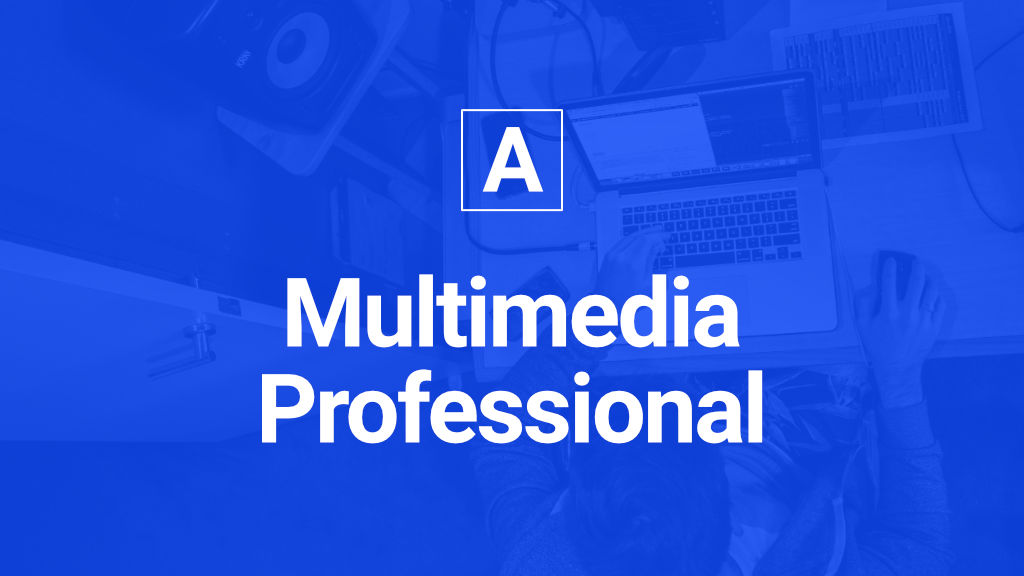
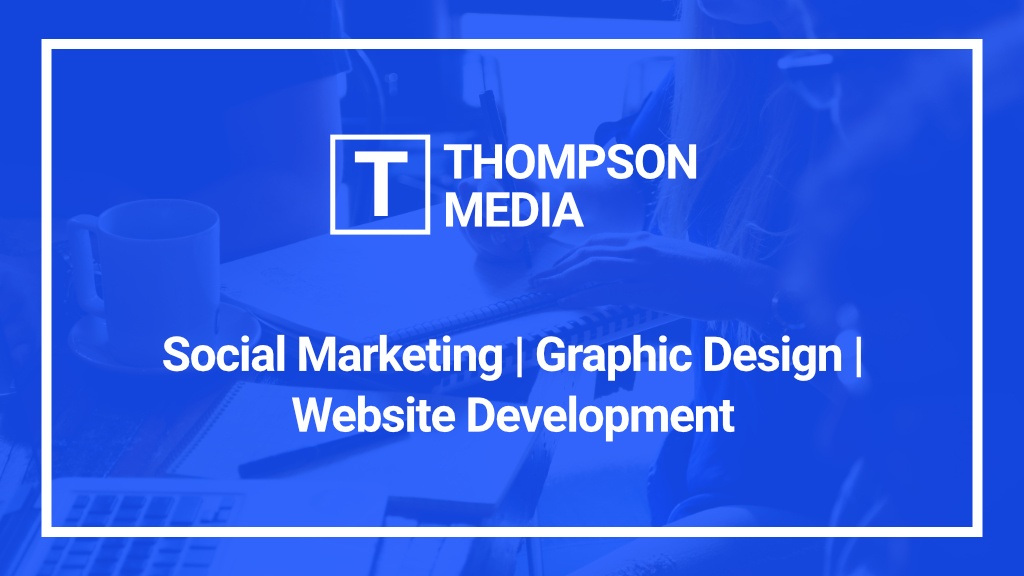
Changed Name and info

diff --git a/_sass/jekyll-theme-cayman.scss b/_sass/jekyll-theme-cayman.scss
@@ -3,38 +3,6 @@
 @import "framework/framework";
 @import "framework/icons";
 
-#header {
-  padding: 1.5rem 0;
-}
-
-#header ul.nav {
-  display: -ms-flexbox;
-  display: flex;
-  -ms-flex-pack: justify;
-  justify-content: space-between;
-  -ms-flex-align: center;
-  margin-bottom: 0;
-  list-style: none;
-}
-
-#header ul.nav > li {
-  display: inline-block;
-  margin-bottom: 0;
-}
-
-#header ul.nav > li > a {
-  font-size: 2.0rem;
-  font-weight: 400;
-}
-
-@media (min-width: 40rem) {
-  #header ul.nav {
-    width: 50%;
-    margin-left: auto;
-    margin-right: auto;
-  }
-}
-
 #intro {
   position: relative;
   padding-top: 8%;
@@ -60,117 +28,8 @@
     opacity: 0.85;
 }
 
-#about {
-  padding-top: 8%;
-  padding-bottom: 8%;
-}
-
-#about .row {
-  padding-bottom: 5%;
-}
-
-#about .row:last-child {
-  padding-bottom: 0;
-}
-
-#about h4 {
-  display: inline-block;
-  margin-left: 2.0rem;
-  vertical-align: middle;
-  margin-bottom: 3.4rem;
-}
-
-#about i {
-  display: inline-block;
-  font-size: 6rem;
-  color: $primary-color;
-  margin-bottom: 3.4rem;
-  vertical-align: middle;
-}
-
-#contact {
-  text-align: center;
-}
-
-#contact .cta {
-  padding-top: 6%;
-  padding-bottom: 6%;
-  background-color: $primary-color;
-}
-
-#contact .cta * {
-  color: #fff;
-}
-
-#contact .cta a.button > i {
-  margin-right: 1rem;
-}
-
-#contact .social {
-  padding-top: 5%;
-  padding-bottom: 2.0rem;
-}
-
-#contact .social ul {
-  display: -ms-flexbox;
-  display: flex;
-  -ms-flex-pack: justify;
-  justify-content: space-between;
-  -ms-flex-align: center;
-  margin-bottom: 0;
-  list-style: none;
-}
-
-#contact .social ul > li {
-  display: inline-block;
-  margin-right: 10px;
-  margin-bottom: 0;
-}
-
-#contact .social ul > li:last-child {
-  margin-right: 0;
-}
-
-#contact .social ul > li > a {
-    font-size: 2.4rem;
-}
-
-#contact .copyright {
-  padding-bottom: 5%;
-  font-size: 1.6rem;
-}
-
-@media (min-width: 40rem) {
-  #contact .cta .container {
-    width: 50%;
-  }
-  #contact .social ul {
-    width: 33.33%;
-    margin-left: auto;
-    margin-right: auto;
-  }
-}
-
 @media (max-width: 40rem) {
     #intro {
       text-align: center;
-    }
-    #about .column {
-      padding-bottom: 5%;
-    }
-    #about .column:last-child {
-      padding-bottom: 0;
-    }
-    #about h4 {
-      margin-left: 1.5rem;
-      margin-bottom: 1.5rem;
-    }
-    #about i {
-      font-size: 5rem;
-      margin-bottom: 1.5rem;
-    }
-    #contact .cta a.button > i {
-      display: none;
-      margin-right: 0.5rem;
     }
 }

diff --git a/_layouts/default.html b/_layouts/default.html
@@ -5,40 +5,7 @@
   </head>
   <body>
 
-    <header id="header">
-      <div class="container">
-        <ul class="nav">
-          <li><a href="#about">About</a></li>
-          <li><a href="#work">Work</a></li>
-          <li><a href="#contact">Contact</a></li>
-        </ul>
-      </div>
-    </header>
-
     {{ content }}
-
-    <footer id="contact">
-      <div class="cta">
-        <div class="container">
-          <h1>Let's Grab a Coffee!</h1>
-          <p>I am always keen for a good coffee, my absolute favourite is a triple-shot caramel latte. What's yours?</p>
-          <a href="mailto:contact@angusthompson.com.au" class="button button-clear"><i class="icon-envelope"></i>contact@angusthompson.com.au</a>
-        </div>
-      </div>
-      <div class="social">
-        <div class="container">
-          <ul>
-            <li><a href="https://www.facebook.com/angustho"><i class="icon-social-facebook"></i></a></li>
-            <li><a href="https://www.instagram.com/thomo120/"><i class="icon-social-instagram"></i></a></li>
-            <li><a href="https://www.youtube.com/AngusThompson120"><i class="icon-social-youtube"></i></a></li>
-            <li><a href="https://www.linkedin.com/in/angus-thompson-22931762/"><i class="icon-social-linkedin"></i></a></li>
-          </ul>
-        </div>
-      </div>
-      <div class="copyright">
-        © 2017 Angus Thompson. All rights reserved.
-      </div>
-    </footer>
 
     {% if site.google_analytics %}
       <script type="text/javascript">

diff --git a/index.md b/index.md
@@ -1,46 +1,13 @@
 ---
 layout: default
-title: Angus Thompson - Multimedia Professional
+title: Thompson Media - Social Marketing, Graphic Design & Website Development
 ---
 
 <section id="intro">
   <div class="container">
     <div class="row">
       <div class="column">
-        <h1>Hello, I’m Angus. Designer, Developer & Videographer.</h1>
+        <h1>Social Marketing | Graphic Design | Website Development</h1>
       </div>
-      <div class="column"></div>
-    </div>
-  </div>
-</section>
-
-<section id="about">
-  <div class="container">
-    <div class="row">
-      <div class="column">
-        <i class="icon-eye"></i>
-        <h4>UI/UX Designer</h4>
-        <p>Lorem ipsum dolor sit amet, consectetur adipiscing elit. Fusce tristique blandit est, eget tincidunt ipsum lacinia vitae. Nunc at vehicula nisi. Proin placerat, enim vitae blandit fermentum, metus felis aliquet orci, ut aliquam lacus ipsum id velit.</p>
-      </div>
-      <div class="column">
-        <i class="icon-code"></i>
-        <h4>Website Developer</h4>
-        <p>Lorem ipsum dolor sit amet, consectetur adipiscing elit. Fusce tristique blandit est, eget tincidunt ipsum lacinia vitae. Nunc at vehicula nisi. Proin placerat, enim vitae blandit fermentum, metus felis aliquet orci, ut aliquam lacus ipsum id velit.</p>
-      </div>
-    </div>
-
-    <div class="row">
-      <div class="column">
-        <i class="icon-vector"></i>
-        <h4>Graphic Designer</h4>
-        <p>Lorem ipsum dolor sit amet, consectetur adipiscing elit. Fusce tristique blandit est, eget tincidunt ipsum lacinia vitae. Nunc at vehicula nisi. Proin placerat, enim vitae blandit fermentum, metus felis aliquet orci, ut aliquam lacus ipsum id velit.</p>
-      </div>
-      <div class="column">
-        <i class="icon-control-play"></i>
-        <h4>Videographer</h4>
-        <p>Lorem ipsum dolor sit amet, consectetur adipiscing elit. Fusce tristique blandit est, eget tincidunt ipsum lacinia vitae. Nunc at vehicula nisi. Proin placerat, enim vitae blandit fermentum, metus felis aliquet orci, ut aliquam lacus ipsum id velit.</p>
-      </div>
-
-    </div>
   </div>
 </section>
